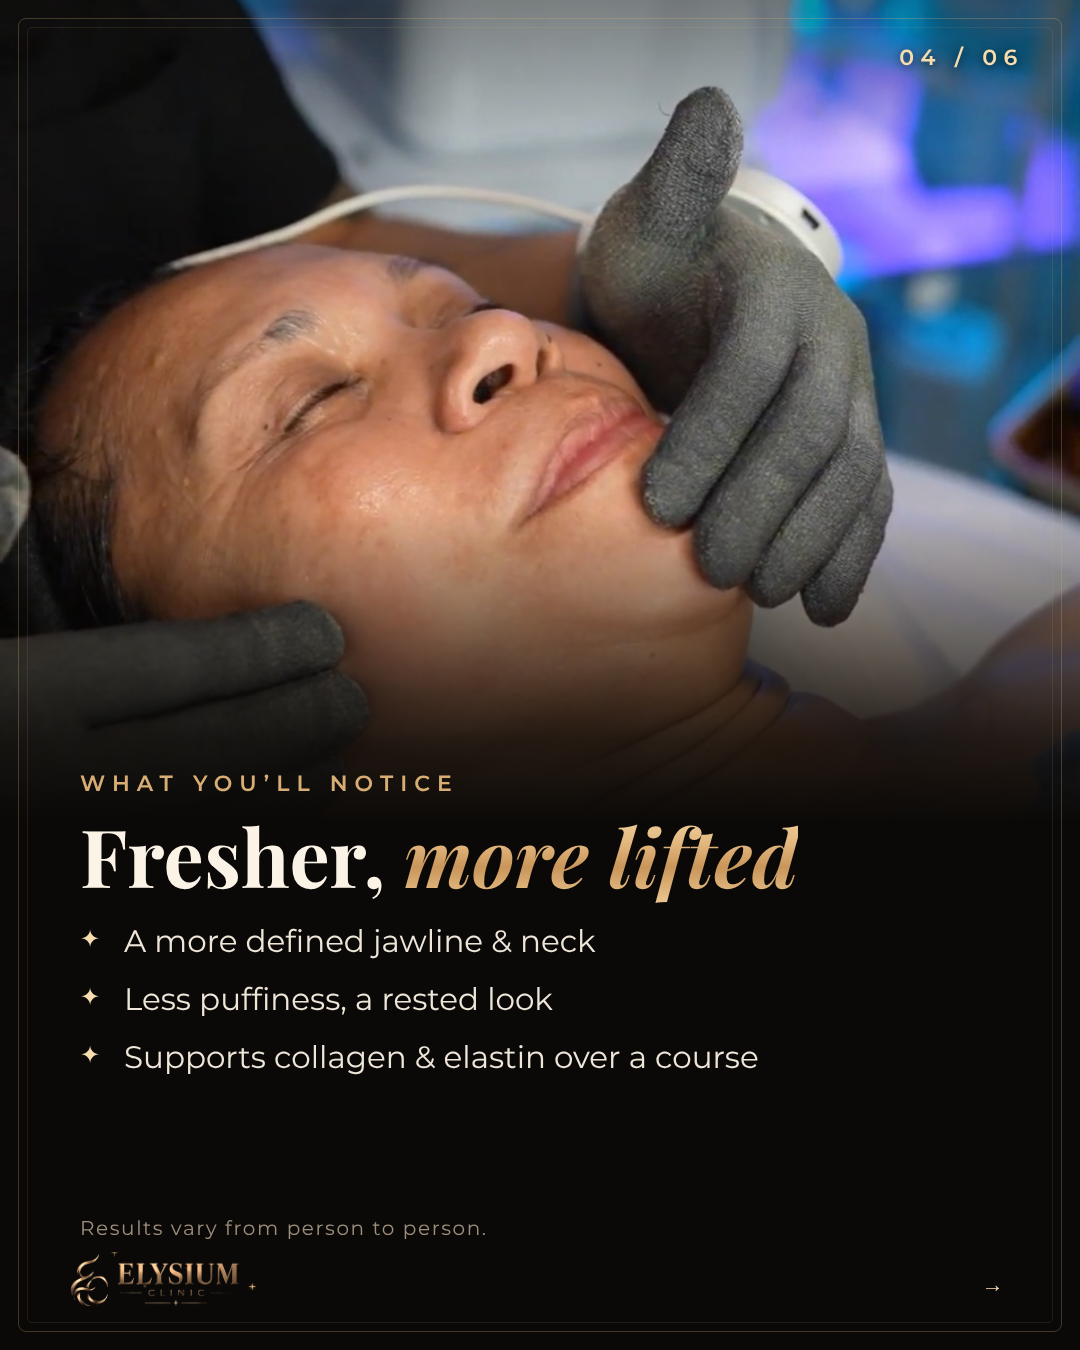
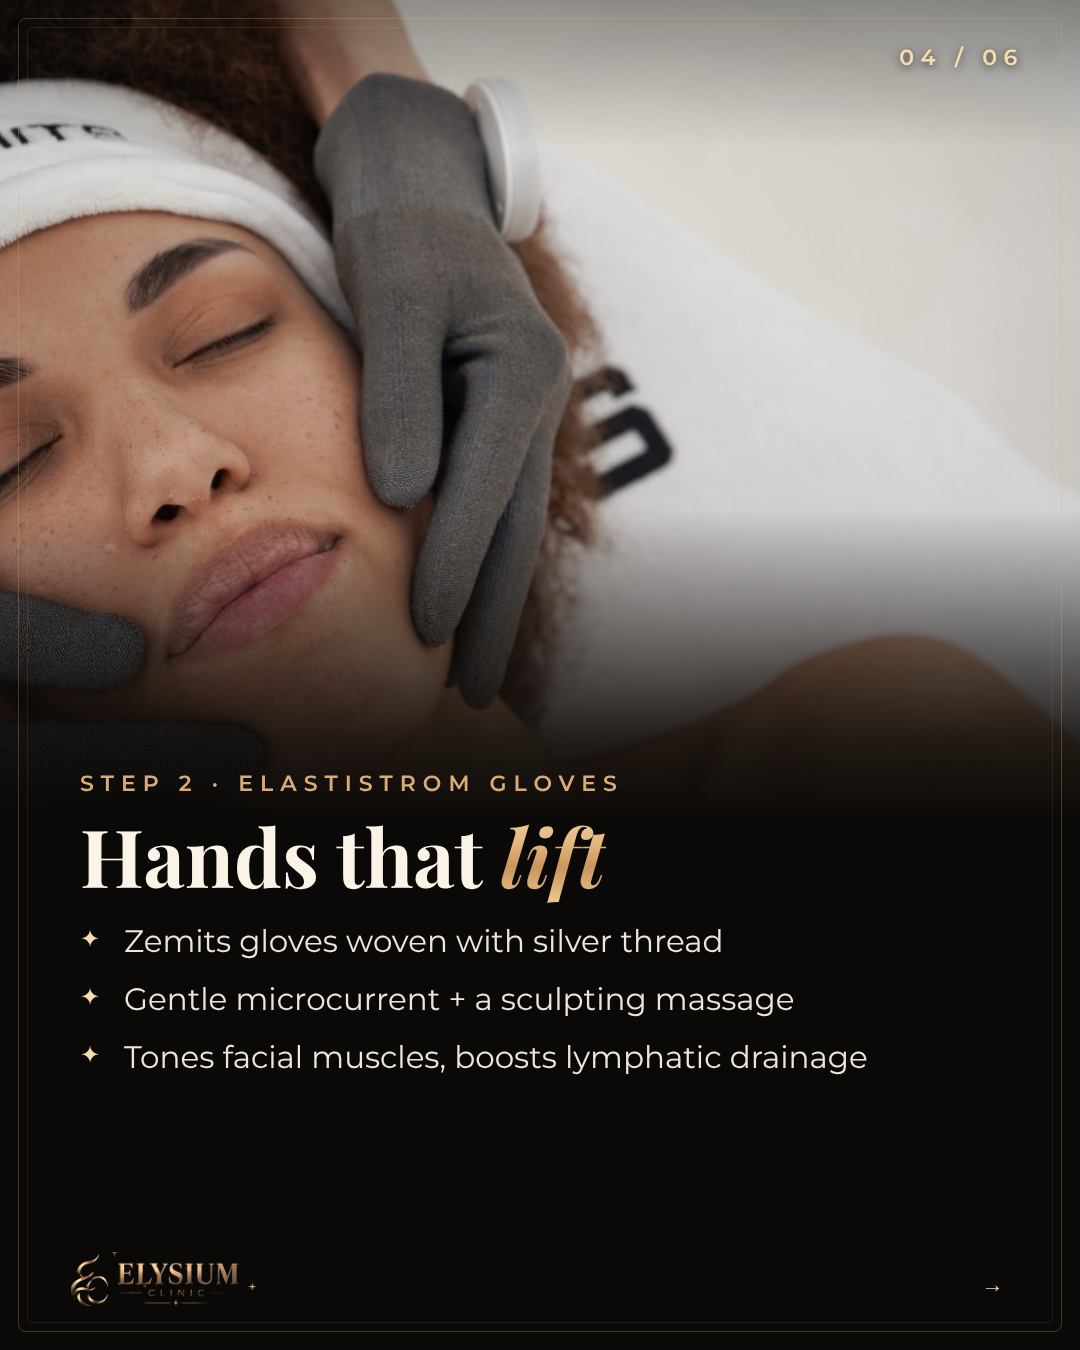
21.11: ElastiStrom & RF Contour (microcurrent gloves + needle-free RF), RF photos, updated captions
Claude-Session: https://claude.ai/code/session_01SaUhS5EeEBn7oMfuXG8zXf

diff --git a/posts_21_11/src/p4_2.html b/posts_21_11/src/p4_2.html
@@ -1,1 +1,1 @@
-<!doctype html><html lang="en"><head><meta charset="utf-8"><link href="https://fonts.googleapis.com/css2?family=Playfair+Display:ital,wght@0,600;0,700;0,800;1,600;1,700&family=Montserrat:wght@400;500;600;700&display=block" rel="stylesheet"><link rel="stylesheet" href="common.css"><style>html,body{width:1080px;height:1350px}</style></head><body><div class="c"><div class="ph" style="background-image:url(z8.jpg);background-position:center 50%"></div><div class="fade"></div><div class="deco"></div><div class="no">02 / 06</div><div class="txt"><div class="k">WHAT IS IT?</div><h1>The gloves <em class="goldtext">are</em> the device</h1><p>ElastiStrom gloves are woven with <b>silver thread</b> that carries gentle microcurrent. No machine, no probes, <b>no needles</b>: just your therapist’s hands.</p></div><div class="swipe">→</div><div class="lg"><img src="logo.png"></div></div></body></html>
+<!doctype html><html lang="en"><head><meta charset="utf-8"><link href="https://fonts.googleapis.com/css2?family=Playfair+Display:ital,wght@0,600;0,700;0,800;1,600;1,700&family=Montserrat:wght@400;500;600;700&display=block" rel="stylesheet"><link rel="stylesheet" href="common.css"><style>html,body{width:1080px;height:1350px}</style></head><body><div class="c"><div class="ph" style="background-image:url(rf1.jpg);background-position:center 35%"></div><div class="fade"></div><div class="deco"></div><div class="no">02 / 06</div><div class="txt"><div class="k">TWO TECHNOLOGIES · ONE TREATMENT</div><h1>Tighten <em class="goldtext">&amp;</em> sculpt</h1><ul><li><b style="color:#f6dcae">RF Contour</b>: gentle radiofrequency warmth that firms the skin</li><li><b style="color:#f6dcae">ElastiStrom</b>: microcurrent gloves that tone &amp; lift</li></ul></div><div class="swipe">→</div><div class="lg"><img src="logo.png"></div></div></body></html>

diff --git a/posts_21_11/src/p4_4.html b/posts_21_11/src/p4_4.html
@@ -1,1 +1,1 @@
-<!doctype html><html lang="en"><head><meta charset="utf-8"><link href="https://fonts.googleapis.com/css2?family=Playfair+Display:ital,wght@0,600;0,700;0,800;1,600;1,700&family=Montserrat:wght@400;500;600;700&display=block" rel="stylesheet"><link rel="stylesheet" href="common.css"><style>html,body{width:1080px;height:1350px}</style></head><body><div class="c"><div class="ph" style="background-image:url(k1.jpg);background-position:center 74%"></div><div class="fade"></div><div class="deco"></div><div class="no">04 / 06</div><div class="txt"><div class="k">WHAT YOU’LL NOTICE</div><h1>Fresher, <em class="goldtext">more lifted</em></h1><ul><li>A more defined jawline &amp; neck</li><li>Less puffiness, a rested look</li><li>Supports collagen &amp; elastin over a course</li></ul></div><div class="fine">Results vary from person to person.</div><div class="swipe">→</div><div class="lg"><img src="logo.png"></div></div></body></html>
+<!doctype html><html lang="en"><head><meta charset="utf-8"><link href="https://fonts.googleapis.com/css2?family=Playfair+Display:ital,wght@0,600;0,700;0,800;1,600;1,700&family=Montserrat:wght@400;500;600;700&display=block" rel="stylesheet"><link rel="stylesheet" href="common.css"><style>html,body{width:1080px;height:1350px}</style></head><body><div class="c"><div class="ph" style="background-image:url(z4.jpg);background-position:center 40%"></div><div class="fade"></div><div class="deco"></div><div class="no">04 / 06</div><div class="txt"><div class="k">STEP 2 · ELASTISTROM GLOVES</div><h1>Hands that <em class="goldtext">lift</em></h1><ul><li>Zemits gloves woven with silver thread</li><li>Gentle microcurrent + a sculpting massage</li><li>Tones facial muscles, boosts lymphatic drainage</li></ul></div><div class="swipe">→</div><div class="lg"><img src="logo.png"></div></div></body></html>

diff --git a/posts_21_11/src/p4_5.html b/posts_21_11/src/p4_5.html
@@ -1,1 +1,1 @@
-<!doctype html><html lang="en"><head><meta charset="utf-8"><link href="https://fonts.googleapis.com/css2?family=Playfair+Display:ital,wght@0,600;0,700;0,800;1,600;1,700&family=Montserrat:wght@400;500;600;700&display=block" rel="stylesheet"><link rel="stylesheet" href="common.css"><style>html,body{width:1080px;height:1350px}</style></head><body><div class="c"><div class="ph" style="background-image:url(z_model.jpg);background-position:center 30%"></div><div class="fade"></div><div class="deco"></div><div class="no">05 / 06</div><div class="txt"><div class="k">IS IT FOR YOU?</div><h1>Made for <em class="goldtext">tired skin</em></h1><ul><li>Loss of firmness or a softer jawline</li><li>A tired, puffy face &amp; fine lines</li><li>You want results with no needles &amp; no downtime</li></ul></div><div class="swipe">→</div><div class="lg"><img src="logo.png"></div></div></body></html>
+<!doctype html><html lang="en"><head><meta charset="utf-8"><link href="https://fonts.googleapis.com/css2?family=Playfair+Display:ital,wght@0,600;0,700;0,800;1,600;1,700&family=Montserrat:wght@400;500;600;700&display=block" rel="stylesheet"><link rel="stylesheet" href="common.css"><style>html,body{width:1080px;height:1350px}</style></head><body><div class="c"><div class="ph" style="background-image:url(k1.jpg);background-position:center 74%"></div><div class="fade"></div><div class="deco"></div><div class="no">05 / 06</div><div class="txt"><div class="k">WHAT YOU’LL NOTICE</div><h1>Firmer, <em class="goldtext">more lifted</em></h1><ul><li>A more defined jawline &amp; neck</li><li>Tighter-looking skin, less puffiness</li><li>No needles, no downtime. Best as a course</li></ul></div><div class="fine">Results vary from person to person.</div><div class="swipe">→</div><div class="lg"><img src="logo.png"></div></div></body></html>

diff --git a/posts_21_11/src/p4_3.html b/posts_21_11/src/p4_3.html
@@ -1,1 +1,1 @@
-<!doctype html><html lang="en"><head><meta charset="utf-8"><link href="https://fonts.googleapis.com/css2?family=Playfair+Display:ital,wght@0,600;0,700;0,800;1,600;1,700&family=Montserrat:wght@400;500;600;700&display=block" rel="stylesheet"><link rel="stylesheet" href="common.css"><style>html,body{width:1080px;height:1350px}</style></head><body><div class="c"><div class="ph" style="background-image:url(z4.jpg);background-position:center 40%"></div><div class="fade"></div><div class="deco"></div><div class="no">03 / 06</div><div class="txt"><div class="k">HOW IT WORKS</div><h1>Microcurrent + <em class="goldtext">sculpting massage</em></h1><ul><li>Gentle microcurrent flows through the gloves</li><li>Hands-on massage that tones facial muscles</li><li>Boosts circulation &amp; lymphatic drainage</li></ul></div><div class="swipe">→</div><div class="lg"><img src="logo.png"></div></div></body></html>
+<!doctype html><html lang="en"><head><meta charset="utf-8"><link href="https://fonts.googleapis.com/css2?family=Playfair+Display:ital,wght@0,600;0,700;0,800;1,600;1,700&family=Montserrat:wght@400;500;600;700&display=block" rel="stylesheet"><link rel="stylesheet" href="common.css"><style>html,body{width:1080px;height:1350px}</style></head><body><div class="c"><div class="ph" style="background-image:url(rf2.jpg);background-position:center 40%"></div><div class="fade"></div><div class="deco"></div><div class="no">03 / 06</div><div class="txt"><div class="k">STEP 1 · RF CONTOUR</div><h1>Warmth that <em class="goldtext">firms</em></h1><ul><li>Radiofrequency gently heats the deeper layers</li><li>Stimulates collagen &amp; elastin</li><li>Skin looks tighter &amp; smoother. No needles</li></ul></div><div class="swipe">→</div><div class="lg"><img src="logo.png"></div></div></body></html>

diff --git a/posts_21_11/src/p4_1.html b/posts_21_11/src/p4_1.html
@@ -1,1 +1,1 @@
-<!doctype html><html lang="en"><head><meta charset="utf-8"><link href="https://fonts.googleapis.com/css2?family=Playfair+Display:ital,wght@0,600;0,700;0,800;1,600;1,700&family=Montserrat:wght@400;500;600;700&display=block" rel="stylesheet"><link rel="stylesheet" href="common.css"><style>html,body{width:1080px;height:1350px}</style></head><body><div class="c"><div class="ph" style="background-image:url(z_main.jpg);background-position:center 30%"></div><div class="fade"></div><div class="deco"></div><div class="no">01 / 06</div><div class="txt"><div class="k">BLACK FRIDAY AT ELYSIUM</div><h1>A lift <em class="goldtext">without needles</em></h1><p>ElastiStrom microcurrent gloves by Zemits</p></div><div class="swipe">SWIPE →</div><div class="lg"><img src="logo.png"></div></div></body></html>
+<!doctype html><html lang="en"><head><meta charset="utf-8"><link href="https://fonts.googleapis.com/css2?family=Playfair+Display:ital,wght@0,600;0,700;0,800;1,600;1,700&family=Montserrat:wght@400;500;600;700&display=block" rel="stylesheet"><link rel="stylesheet" href="common.css"><style>html,body{width:1080px;height:1350px}</style></head><body><div class="c"><div class="ph" style="background-image:url(z_main.jpg);background-position:center 30%"></div><div class="fade"></div><div class="deco"></div><div class="no">01 / 06</div><div class="txt"><div class="k">BLACK FRIDAY AT ELYSIUM</div><h1>A lift <em class="goldtext">without needles</em></h1><p>ElastiStrom &amp; RF Contour: <b>microcurrent gloves + radiofrequency</b> in one treatment</p></div><div class="swipe">SWIPE →</div><div class="lg"><img src="logo.png"></div></div></body></html>

diff --git a/posts_21_11/src/p4_6.html b/posts_21_11/src/p4_6.html
@@ -2,8 +2,8 @@
 <div style="position:absolute;left:0;right:0;top:150px;text-align:center"><div class="pill">BLACK FRIDAY</div>
 <h1 style="font-family:'Playfair Display',serif;font-size:96px;font-weight:800;margin-top:36px;line-height:1" class="goldtext ds">Lift for less</h1></div>
 <div class="glass" style="position:absolute;left:110px;right:110px;top:440px;padding:50px;text-align:center">
-<div style="font-size:28px;letter-spacing:.32em;color:var(--gold);font-weight:600">ELASTISTROM</div>
-<div style="font-size:22px;letter-spacing:.2em;color:#a8998a;margin-top:8px">MICROCURRENT GLOVES · ZEMITS</div>
+<div style="font-size:28px;letter-spacing:.32em;color:var(--gold);font-weight:600">ELASTISTROM &amp; RF CONTOUR</div>
+<div style="font-size:22px;letter-spacing:.2em;color:#a8998a;margin-top:8px">MICROCURRENT GLOVES + RADIOFREQUENCY</div>
 <div class="goldtext" style="font-family:'Playfair Display',serif;font-size:150px;font-weight:800;line-height:1;margin-top:18px">£130<s style="font-size:62px;color:#9e8f7c;-webkit-text-fill-color:#9e8f7c;margin-left:16px">£210</s></div>
 <div style="font-size:28px;line-height:1.6;color:#efe6da;margin-top:20px">Book by <b style="color:#f6dcae">30 November</b><br>enjoy it any time until <b style="color:#f6dcae">31 January</b></div></div>
 <div style="position:absolute;left:0;right:0;top:1020px;text-align:center"><div class="pill" style="font-size:30px;padding:22px 54px">SEND “LIFT” TO BOOK</div></div>

diff --git a/posts_21_11/src/story3_1800.html b/posts_21_11/src/story3_1800.html
@@ -16,11 +16,11 @@
 .logo{bottom:120px;width:260px}
 </style></head><body><div class="s"><div class="bg"></div><div class="shade"></div><div class="deco"></div>
 <div class="spark" style="left:900px;top:150px;font-size:38px">✦</div>
-<div class="top"><div class="pill">BLACK FRIDAY</div><br><div class="new">▶ NEW POST · HOW ELASTISTROM WORKS</div>
+<div class="top"><div class="pill">BLACK FRIDAY</div><br><div class="new">▶ NEW POST · HOW IT WORKS</div>
 <div class="h goldtext serif ds">A lift,<em>no needles.</em></div></div>
-<div class="card glass"><div class="name">ELASTISTROM</div><div class="by">MICROCURRENT GLOVES · ZEMITS</div>
+<div class="card glass"><div class="name">ELASTISTROM &amp; RF CONTOUR</div><div class="by">MICROCURRENT GLOVES + RADIOFREQUENCY</div>
 <div class="price goldtext">£130<s>£210</s></div>
-<div class="list">Microcurrent + sculpting massage<br><b>Jawline · neck · less puffiness</b><br>Book by 30.11 · use until 31.01</div></div>
+<div class="list">RF tightens · microcurrent sculpts<br><b>Jawline · neck · less puffiness</b><br>Book by 30.11 · use until 31.01</div></div>
 <div class="zone" style="top:1330px">BOOK YOUR SLOT ↓</div>
 <div class="zone" style="top:1580px;font-size:20px;color:rgba(239,230,218,.6)">or send “LIFT” in DM · PL: £130 zamiast £210</div>
 <div class="logo"><img src="logo.png"></div></div></body></html>

diff --git a/posts_21_11/src/story2_1300.html b/posts_21_11/src/story2_1300.html
@@ -16,6 +16,6 @@
 </style></head><body><div class="s"><div class="shade"></div><div class="deco"></div>
 <div class="top"><div class="pill">NO NEEDLES · NO DOWNTIME</div>
 <div class="h goldtext serif ds">Hands<em> that lift</em></div>
-<div class="sub tsh">ElastiStrom gloves deliver <b>gentle microcurrent</b> through a sculpting facial massage</div><div class="sub tsh" style="font-family:'Playfair Display',serif;font-style:italic;font-size:40px;color:#f6dcae">Firmer jawline · less puffiness</div></div>
+<div class="sub tsh"><b>RF</b> firms, <b>ElastiStrom microcurrent gloves</b> sculpt. One treatment</div><div class="sub tsh" style="font-family:'Playfair Display',serif;font-style:italic;font-size:40px;color:#f6dcae">Firmer jawline · less puffiness</div></div>
 __POLL__
 <div class="logo"><img src="logo.png"></div></div></body></html>

diff --git a/posts_21_11/teksty.md b/posts_21_11/teksty.md
@@ -1,4 +1,4 @@
-# Sob 21.11: ElastiStrom (rękawice mikroprądowe Zemits). P4 karuzela + stories
+# Sob 21.11: ElastiStrom & RF Contour (rękawice mikroprądowe Zemits + RF bez igieł). P4 karuzela + stories
 
 Słowo-klucz w DM: **LIFT** · BF: **£130 zamiast £210**, rezerwacja do 30.11, zabieg do 31.01.
 Feed (weekend): **10:00–11:00**. Stories: **9:30 · 13:00 · 18:00**.
@@ -8,31 +8,37 @@ Feed (weekend): **10:00–11:00**. Stories: **9:30 · 13:00 · 18:00**.
 - Technologia: **wyłącznie mikroprądy** przewodzone przez rękawice ze **srebrną nicią**. Bez maszyny i bez głowic. Producent nie podaje RF ani EMS.
 - Zabieg: masaż twarzy dłońmi w rękawicach (pod spodem rękawiczki nitrylowe).
 - Deklaracje producenta: mniej zmarszczek, lepszy drenaż limfatyczny, wsparcie kolagenu i elastyny, „uniesiony” owal. Efekty są indywidualne.
-- **Nie piszemy:** „RF”, „elektrostymulacja mięśni + RF”, „głowica”, „elektrody”, „gwarantowany efekt”, „jak lifting chirurgiczny”.
-- W „Planie marketingowym” i „Planie stories” są jeszcze błędne opisy („ElastiStorm & RF Contour”, „elektrody i głowica”). Trzeba je poprawić przed R5 (nd 22.11) i P5 (pon 23.11).
+- **Zabieg w Elysium = ElastiStrom & RF Contour:** RF (fala radiowa) bez igieł, który ujędrnia i napina skórę, oraz rękawice ElastiStrom (mikroprądy i modelujący masaż). Głowica jest tylko w części RF, rękawice głowic nie mają.
+- **Nie piszemy:** „ElastiStorm”, „rękawice RF”, „elektrostymulacja mięśni (EMS)”, „elektrody”, „gwarantowany efekt”, „jak lifting chirurgiczny”.
+- W „Planie marketingowym” i „Planie stories” trzeba poprawić pisownię (ElastiStorm → ElastiStrom) i opis „elektrostymulacja mięśni + RF” (powinno być: mikroprądy + RF) przed R5 (nd 22.11) i P5 (pon 23.11).
 
 ## Zdjęcia
-To materiały producenta Zemits (z kliniki partnerskiej i z sesji produktowej). Nie przedstawiaj ich jako klientek Elysium ani efektów z Elysium. Na grafikach nie ma takich sugestii. Upewnij się, że Zemits pozwala klinikom używać tych materiałów (zwykle tak, w ramach materiałów marketingowych dla partnerów).
+- Rękawice: materiały producenta Zemits (z kliniki partnerskiej i z sesji produktowej). Nie przedstawiaj ich jako klientek Elysium ani efektów z Elysium. Upewnij się, że Zemits pozwala klinikom używać tych materiałów.
+- RF (slajdy 2 i 3): to zdjęcia stockowe, jedno pochodzi z wyszukiwarki Google. Upewnij się, że masz do nich licencję (np. z Freepik lub Adobe Stock). Jeśli nie, podmienię je na zdjęcie z Waszej kliniki albo z banku zdjęć z licencją.
 
 ---
 
 ## POST P4: karuzela `P4_karuzela/slajd_1…6.png` (1080×1350), 10:00–11:00
-1. A lift without needles: ElastiStrom microcurrent gloves by Zemits
-2. The gloves *are* the device: silver thread, no machine, no probes, no needles
-3. Microcurrent + sculpting massage: jak działa
-4. Fresher, more lifted: co zauważysz („Results vary”)
-5. Made for tired skin: dla kogo
-6. Oferta: £130 zamiast £210 · book by 30.11 · use until 31.01 · Send “LIFT”
+1. A lift without needles: ElastiStrom & RF Contour, microcurrent gloves + radiofrequency
+2. Tighten & sculpt: dwie technologie w jednym zabiegu
+3. Step 1 · RF Contour: warmth that firms
+4. Step 2 · ElastiStrom gloves: hands that lift
+5. Firmer, more lifted: co zauważysz („Results vary”)
+6. Oferta: ElastiStrom & RF Contour £130 zamiast £210 · book by 30.11 · use until 31.01 · Send “LIFT”
 
 ### Opis (EN)
-Want a lifted, fresher face for Christmas, without a single needle? 🧤✨
+Want a firmer, more lifted face for Christmas, without a single needle? ✨
 
-Meet ElastiStrom by Zemits: microcurrent gloves woven with silver thread. Your therapist’s hands become the device, so the treatment is a deeply relaxing, sculpting facial massage while gentle microcurrent works on your skin and facial muscles.
+Meet ElastiStrom & RF Contour: two technologies in one treatment 👇
 
-✔ helps tone and lift the jawline and neck
-✔ boosts circulation and lymphatic drainage, so less puffiness
-✔ supports collagen and elastin over a course
-✔ non-invasive: no needles, no downtime
+1⃣ RF Contour: gentle radiofrequency warms the deeper layers of the skin to stimulate collagen and elastin, so skin looks tighter and smoother
+2⃣ ElastiStrom by Zemits: microcurrent gloves woven with silver thread. Your therapist’s hands become the device, sculpting your face with a deeply relaxing massage that tones facial muscles and boosts lymphatic drainage
+
+✔ a more defined jawline and neck
+✔ firmer, fresher-looking skin, less puffiness
+✔ no needles, no downtime
+
+Ideal if you’ve noticed a softer jawline, loss of firmness or a tired, puffy face.
 
 🖤 Black Friday: £130 (was £210). Book by 30 November and enjoy your treatment any time until 31 January
 💬 Send “LIFT” and I’ll send you available times
@@ -41,10 +47,10 @@ Meet ElastiStrom by Zemits: microcurrent gloves woven with silver thread. Your t
 📍 Elysium Clinic, Bradford, West Yorkshire
 Results vary from person to person.
 
-#ElastiStrom #Zemits #MicrocurrentFacial #NonSurgicalFacelift #JawlineLift #BradfordSkinClinic #BradfordAesthetics #BlackFridayUK
+#ElastiStrom #Zemits #RFSkinTightening #MicrocurrentFacial #NonSurgicalFacelift #JawlineLift #BradfordSkinClinic #BlackFridayUK
 
 ### Opis (PL, krótko: relacje / grupy FB)
-Lifting bez igieł? 🧤✨ ElastiStrom od Zemits to rękawice mikroprądowe ze srebrną nicią. Zabieg to relaksujący, modelujący masaż twarzy, który napina owal i szyję, wspiera drenaż limfatyczny i produkcję kolagenu. Bez igieł i bez rekonwalescencji.
+Lifting bez igieł? ✨ ElastiStrom & RF Contour to dwie technologie w jednym zabiegu: RF (fala radiowa) ujędrnia i napina skórę, a rękawice mikroprądowe ElastiStrom od Zemits modelują owal i szyję podczas relaksującego masażu. Bez igieł i bez rekonwalescencji.
 🖤 Black Friday: £130 zamiast £210. Zarezerwuj do 30.11, a z zabiegu skorzystasz do końca stycznia.
 💬 Napisz LIFT, a wyślę wolne terminy. Efekty są indywidualne.
 
@@ -63,9 +69,9 @@ Do zrobienia: nagranie + wybrane pytania. Mogę zrobić planszę z pytaniem albo
 
 ## STORY 3 (18:00): `story3_1800_oferta_elastistrom.png`
 - Najpierw udostępnij P4 w relacji z naklejką „New post”, potem dodaj tę planszę.
-- **Naklejka Link** (Fresha, „Book ElastiStrom £130”) pod „BOOK YOUR SLOT ↓”.
+- **Naklejka Link** (Fresha, „Book ElastiStrom & RF £130”) pod „BOOK YOUR SLOT ↓”.
 - **Odliczanie** do 30.11, 23:59 („Black Friday ends”).
 - Zapisz w wyróżnionych: ZABIEGI + BLACK FRIDAY.
 
 ## Odpowiedź na DM „LIFT” / „What’s that?” (szablon)
-Hi! Thank you for your message 🤍 ElastiStrom is a microcurrent facial using special Zemits gloves woven with silver thread. The treatment is a sculpting facial massage while gentle microcurrent tones the skin and facial muscles, supports lymphatic drainage and collagen. No needles and no downtime. This Black Friday it’s £130 instead of £210: book by 30 November and use it any time until 31 January. Would you like me to send you a few available times?
+Hi! Thank you for your message 🤍 ElastiStrom & RF Contour combines two technologies: needle-free radiofrequency, which gently warms the skin to firm and tighten it, and ElastiStrom microcurrent gloves by Zemits, which sculpt your face with a relaxing massage, tone the facial muscles and support lymphatic drainage. No needles and no downtime. This Black Friday it’s £130 instead of £210: book by 30 November and use it any time until 31 January. Would you like me to send you a few available times?
